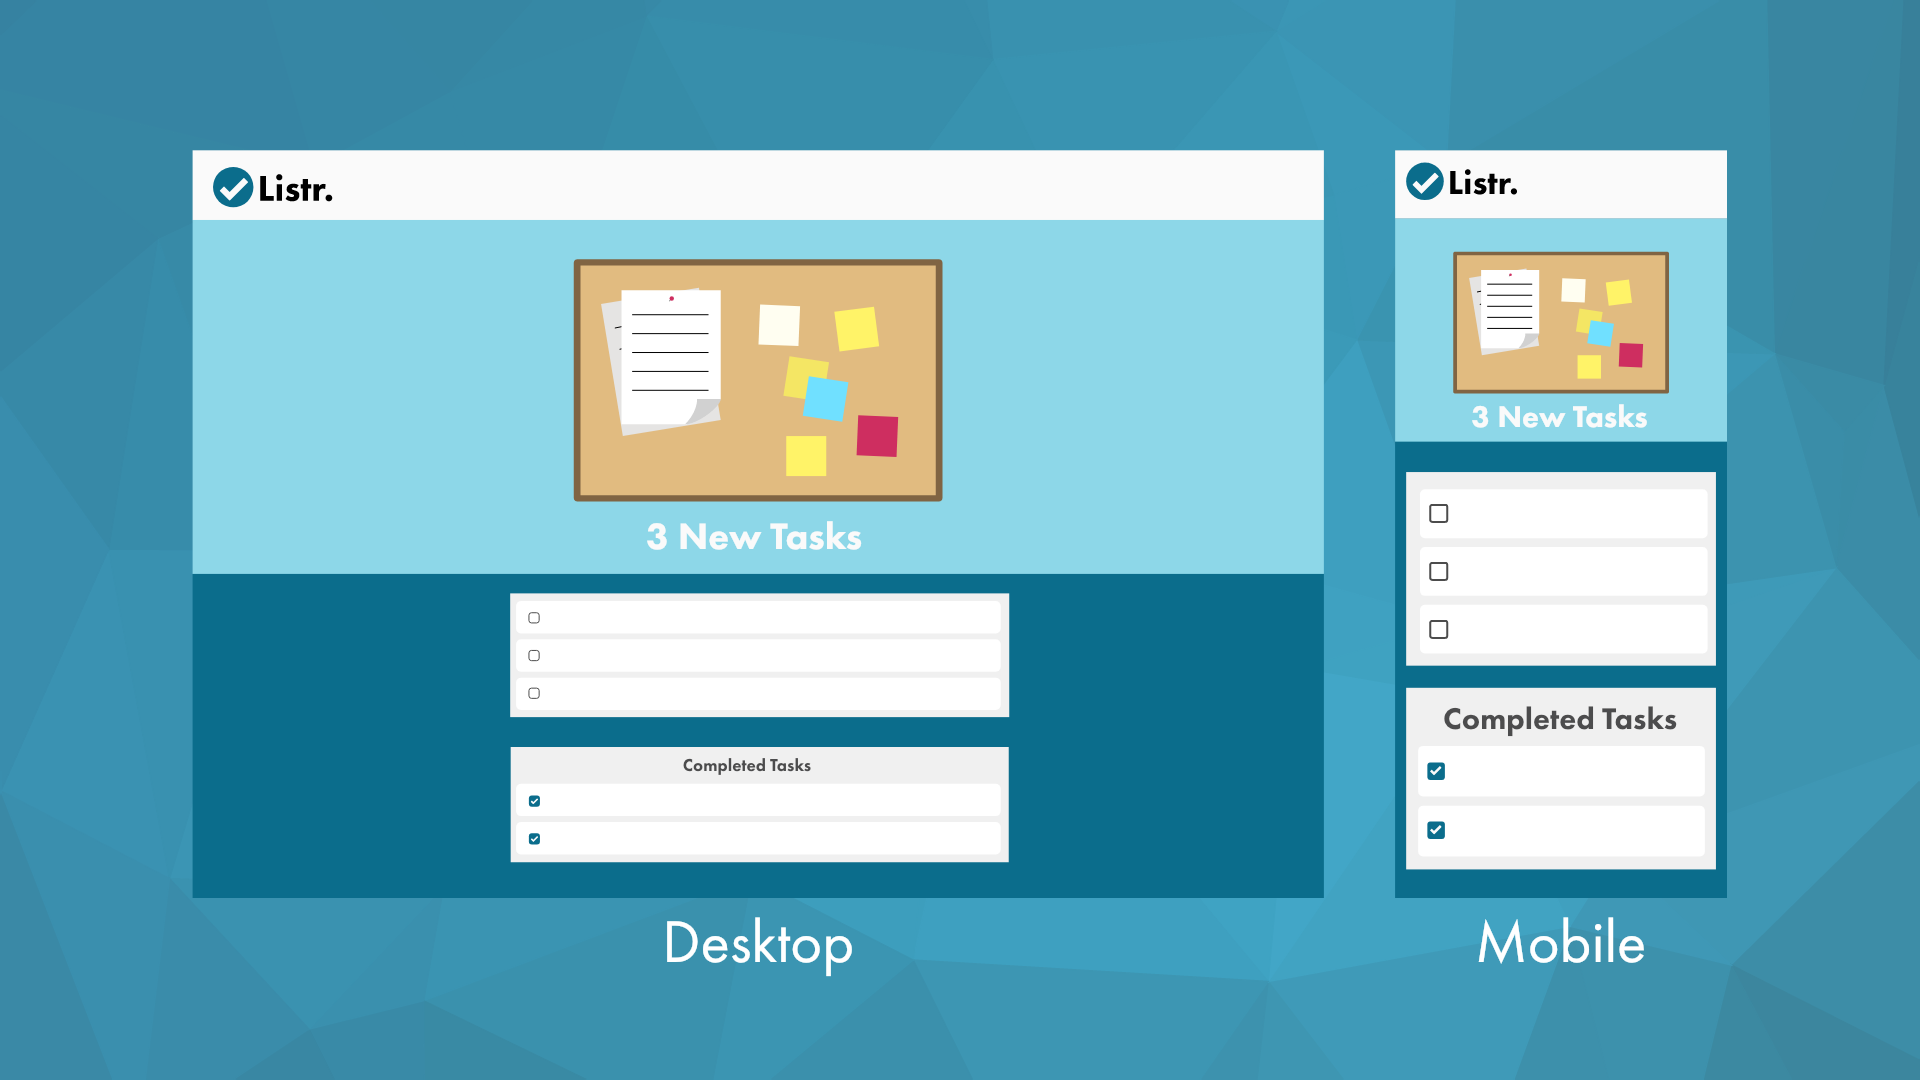
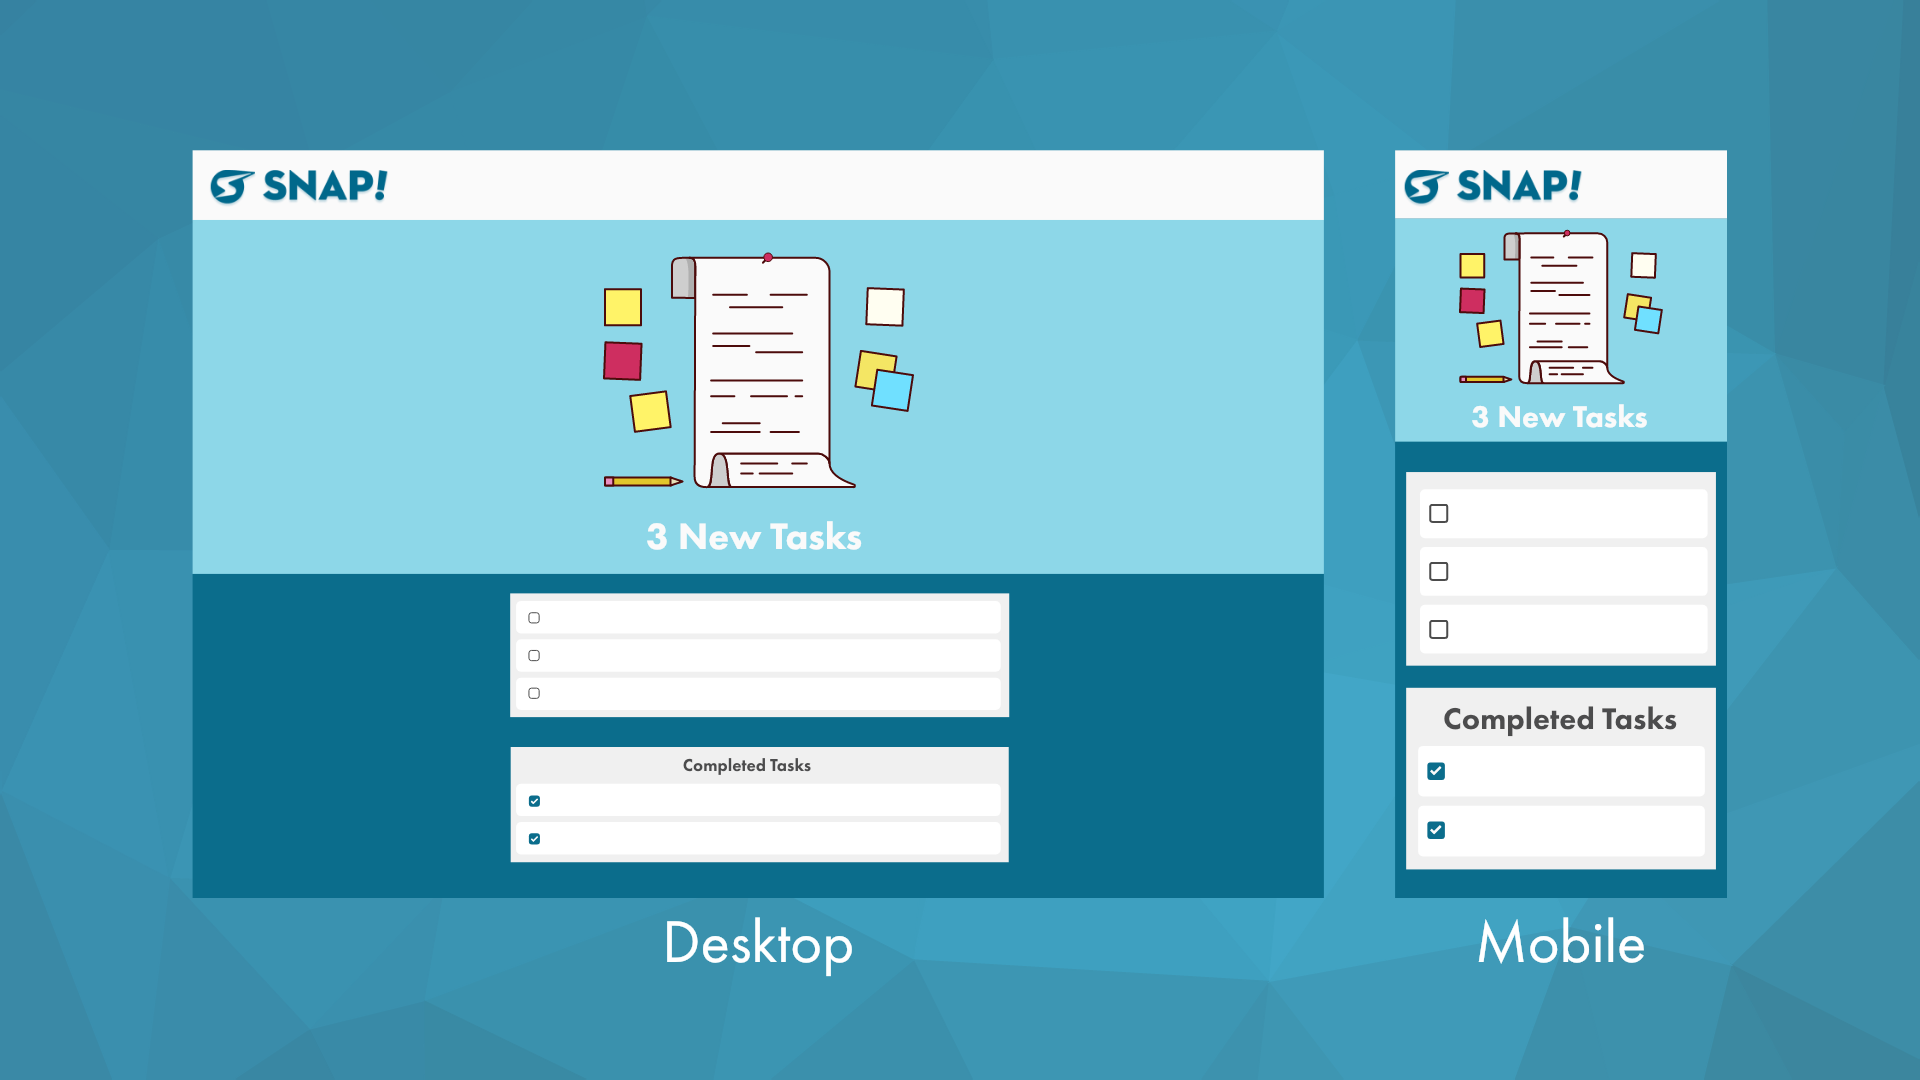
Last minute changes
New Mockup added

diff --git a/index.html b/index.html
@@ -30,7 +30,7 @@
 <!--Navigation-->
 <nav id="menu" class="navbar navbar-inverse navbar-fixed-top" role="navigation">
     <div class="navbar-brand">
-        <img src="img/logo-mark.svg">
+        <img src="img/logo-mark.png">
     </div>
 </nav>
 
